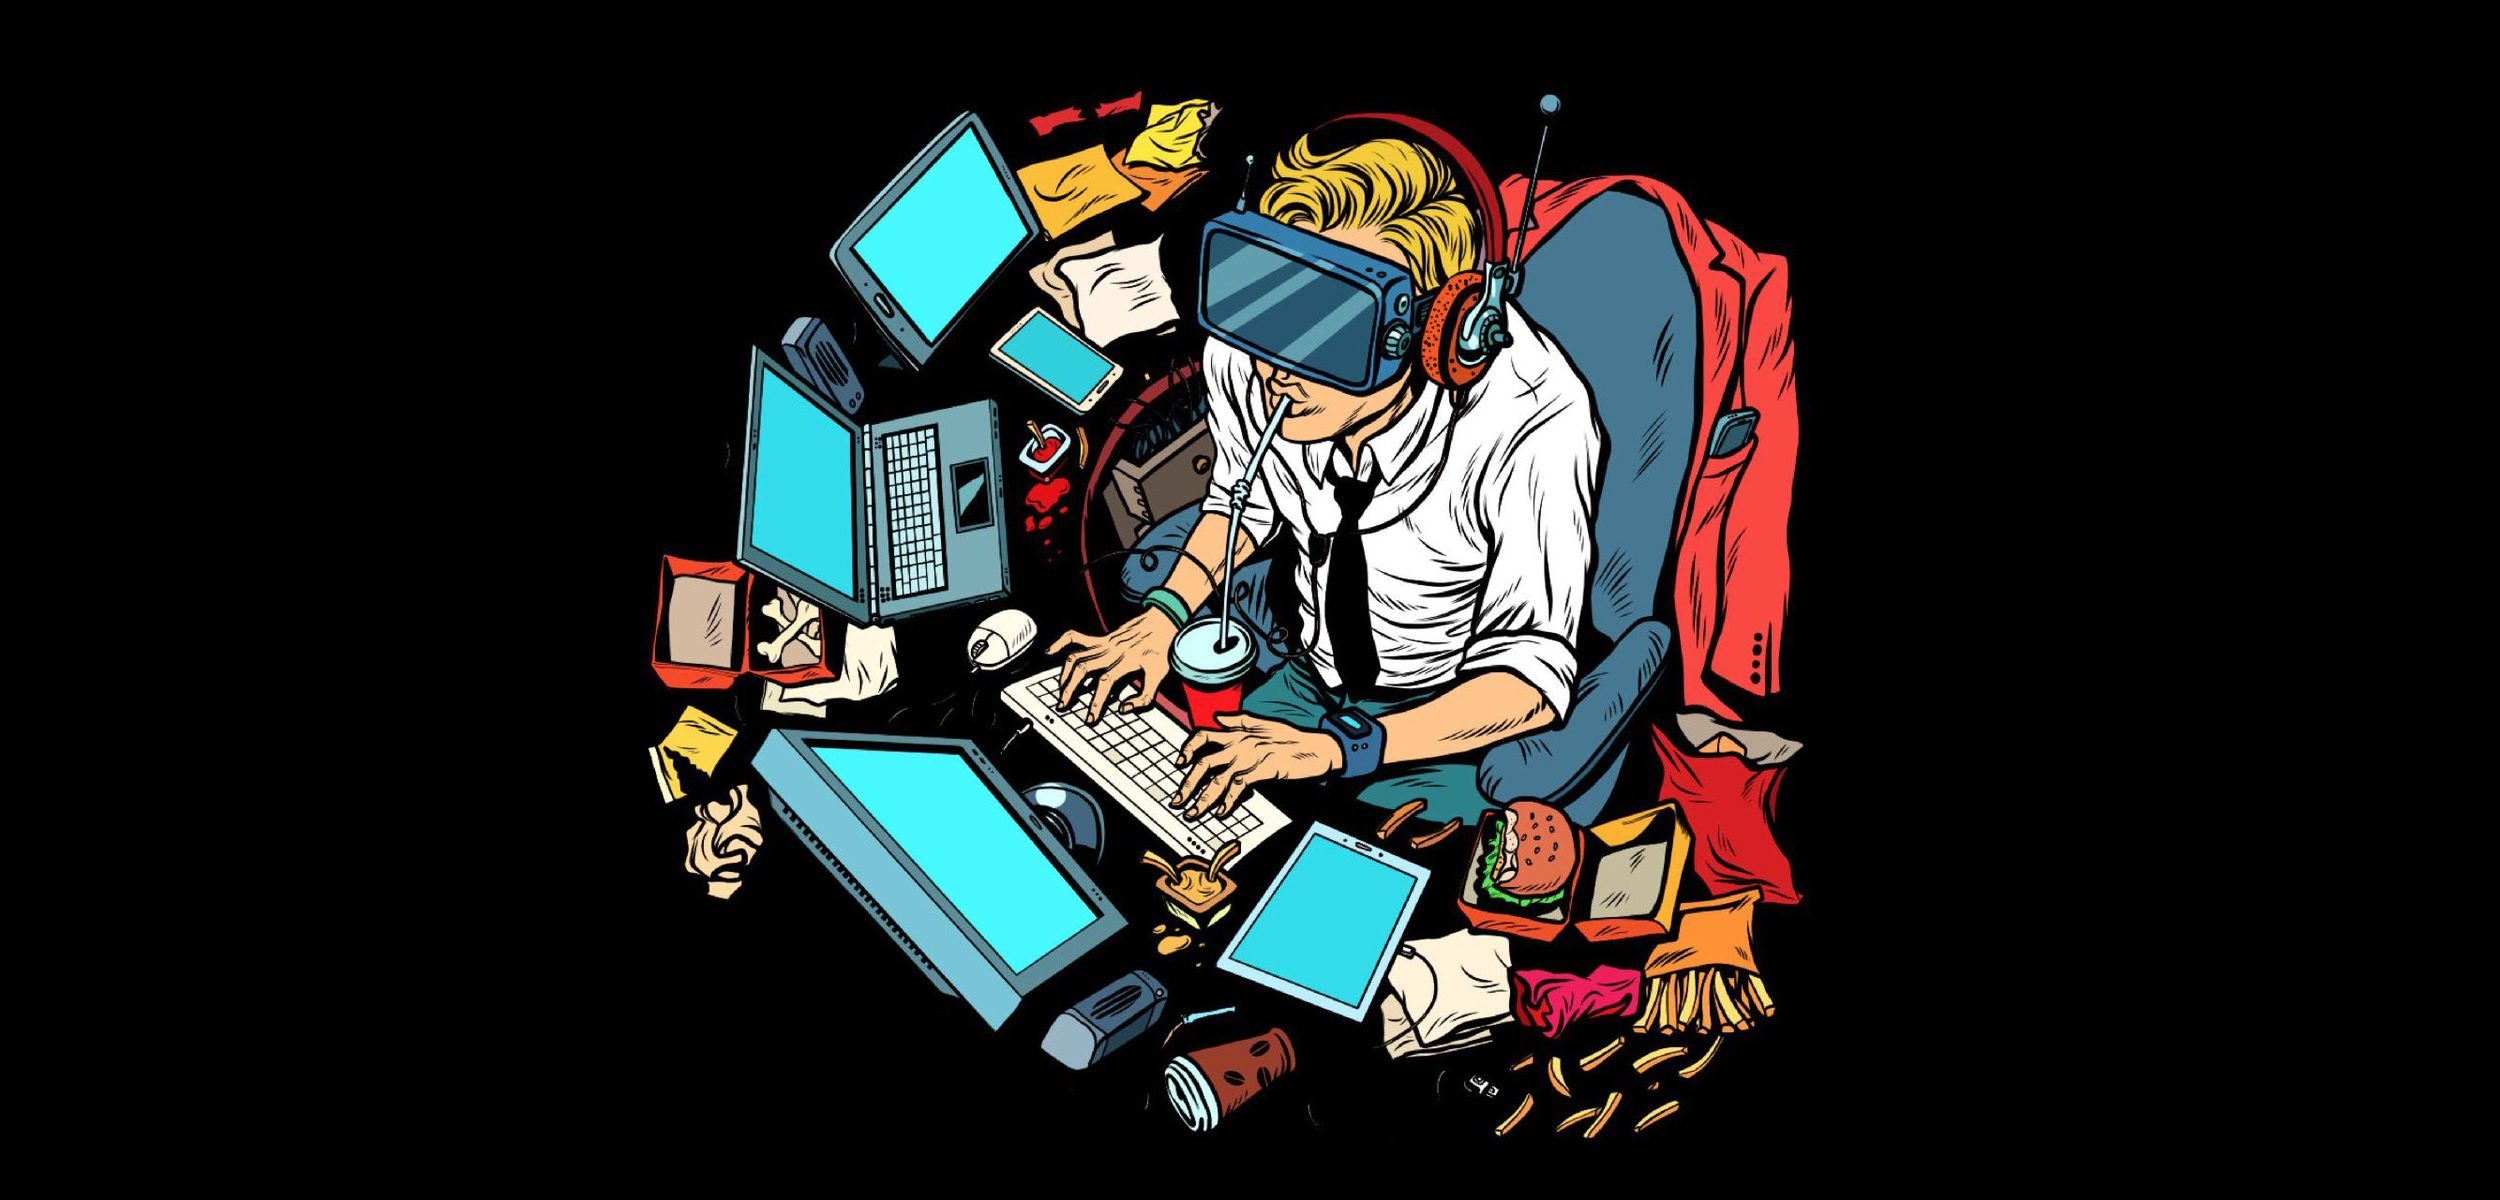
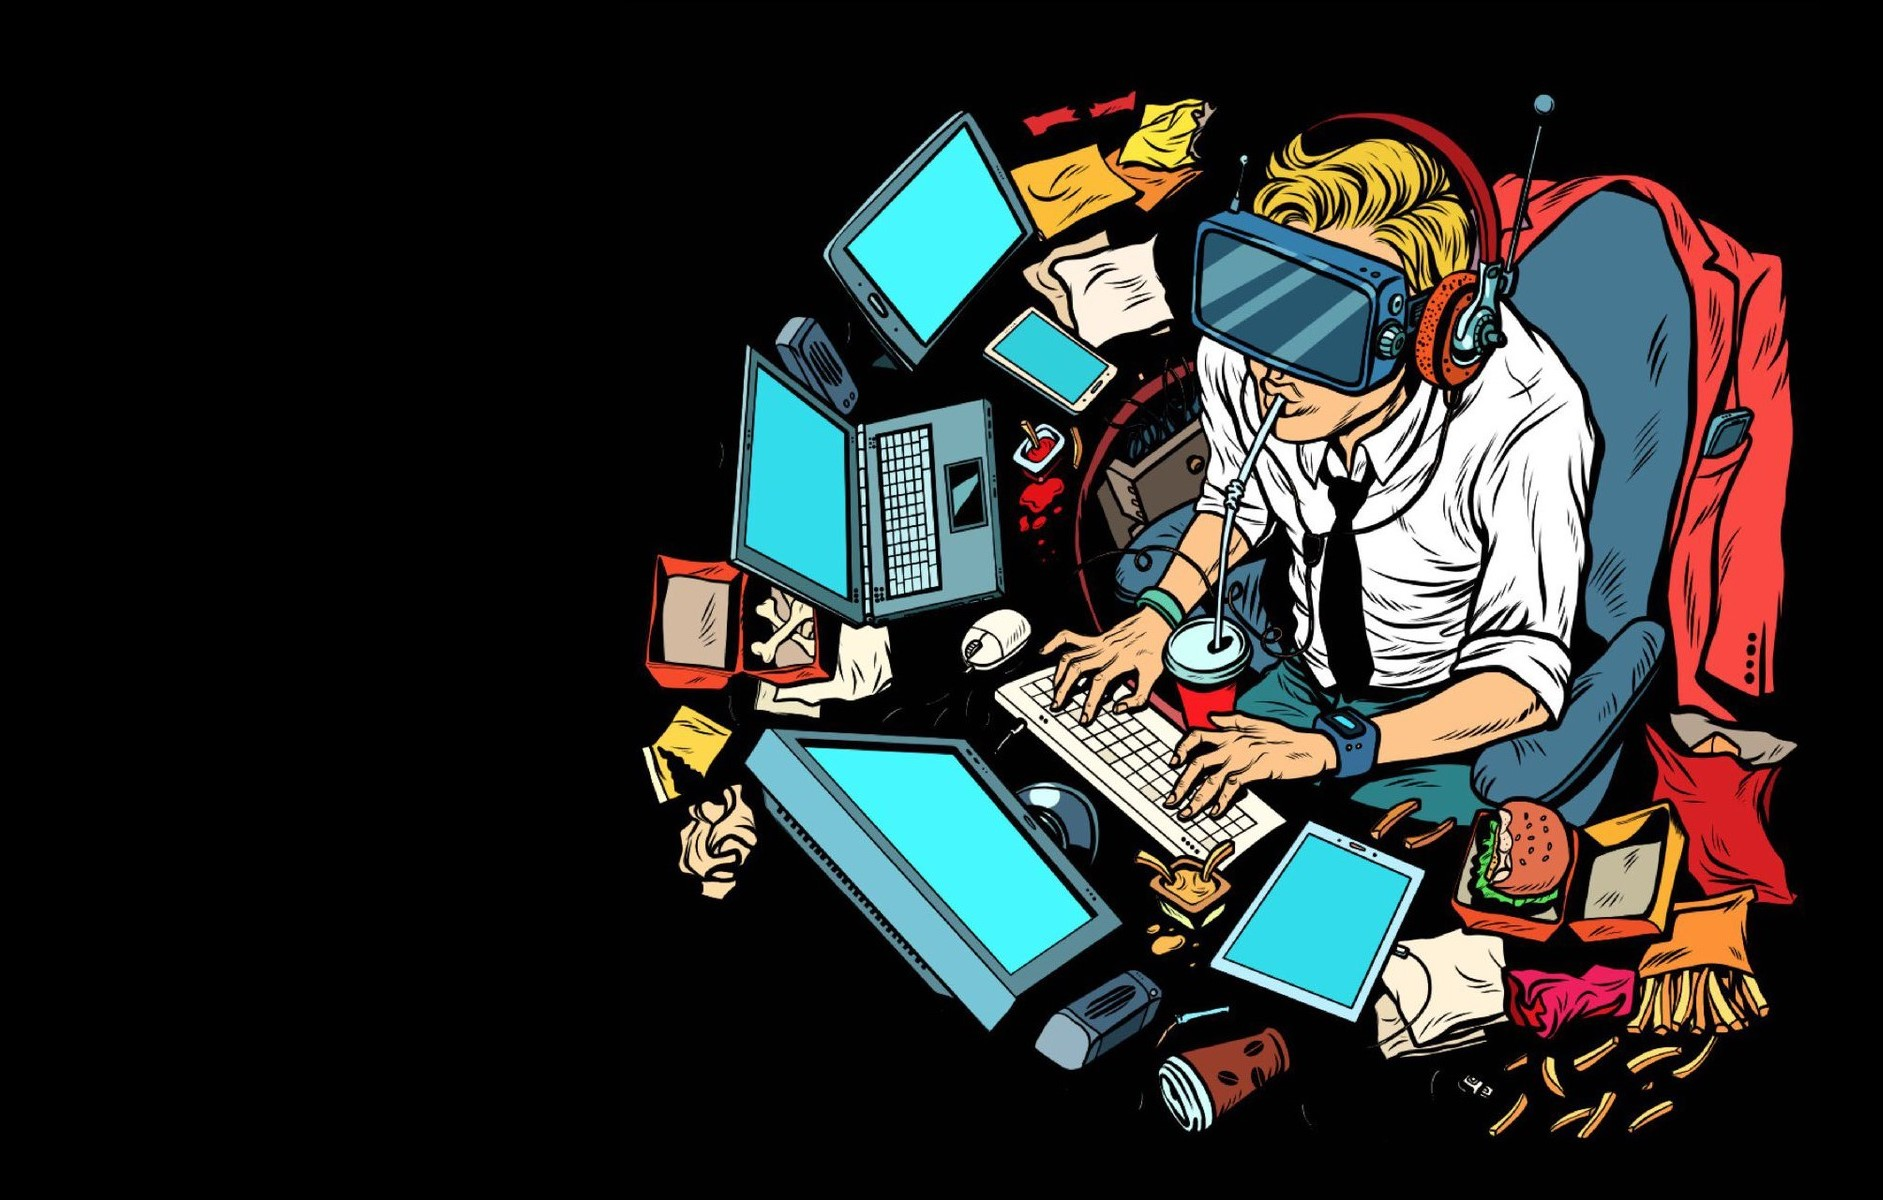
made css changes

diff --git a/assets/stylesheets/index.css b/assets/stylesheets/index.css
@@ -1,8 +1,13 @@
 .top{
     text-align:center;
     color: white;
-    margin-top:0px;
+    margin-top:-20px;
     padding-bottom:100px;
+    background-size: 103%;
+    background-image: url("../img/bg_top.jpg");
+    background-repeat: no-repeat;
+    background-attachment: fixed;
+    background-position:0px 3px;
 }
 .middle {
     background-color: white;
@@ -17,7 +22,9 @@ h2 {
     font-family: 'Raleway', 'Arial', sans-serif;
 }
 .big-header {
-    font-size:60px
+    font-size:60px;
+    font-family: 'Varela Round', sans-serif;
+    margin-top:0px;
 }
 .header{
     margin-left:15%;
@@ -27,10 +34,25 @@ body{
     color:white;
 }
 html{
-    background-image: url("../img/bg_top.jpg");
-    background-repeat: no-repeat;
-    background-attachment: fixed;
-    background-position: center; 
-    background-size:120%;
+    
     background-color: black;
+    
+}
+.myotherButton {
+    background-color:#45c7be;
+    border-radius: 26px;
+	display:inline-block;
+	cursor:pointer;
+	color:#ffffff;
+	font-family: 'Raleway', 'Arial', sans-serif;
+	font-size:20px;
+	padding:10px 25px;
+	text-decoration:none;
+    transition: 0.2s;
+    width:75%;
+    text-align:center;
+}
+.myotherButton:hover {
+    background-color:#EF5350;
+    transform: translateY(2px);
 }

diff --git a/assets/navbar.html b/assets/navbar.html
@@ -14,7 +14,7 @@
 	</div>
 	<div class="menubuttons">
 		<div class="myButton">Post Opportunities</div>
-	      <div class="myButton">Sign Up</div>
+	    <div class="myButton">Sign Up</div>
 	</div>
 </div>
 <script>

diff --git a/index.php b/index.php
@@ -7,6 +7,7 @@
   		<title>WorkTeen</title>
   		<link rel="stylesheet" href="http://yui.yahooapis.com/pure/0.6.0/pure-min.css">
 		<LINK href="assets/stylesheets/pgName.css" rel="stylesheet">
+		<link href="https://fonts.googleapis.com/css?family=Varela+Round" rel="stylesheet">
 		<link href="assets/stylesheets/index.css" rel="stylesheet">
 	</head>
 	<body>
@@ -17,12 +18,19 @@
 			</div>
 			<div class="pure-u-2-3"></div> <!--Spacers-->
 			<div class="pure-u-1-3 header">
-				<h2 class="big-header">LEARN.</h2>
-				<h2 class="big-header">CREATE.</h2>
-				<h2 class="big-header">SERVE.</h2>
+				<h2 class="big-header">LEARN. CREATE. SERVE.</h2>
 			</div>
 			<div class="pure-u-2-3"></div> <!--Spacers-->
+			<div class="pure-u-1-5 header">
+				<div class="myotherButton">Post opportunity ></div>
+			</div>
+			<div class="pure-u-4-5"></div> <!--Spacers-->
 		</div>
+
+
+
+
+
 		<div class="pure-g middle">
 			<div class="pure-u-1-3 header">
 				<h2>JOIN WORKTEEN</h2>
@@ -34,16 +42,15 @@
 				<h2 class="big-header">SERVE.</h2>
 			</div>
 			<div class="pure-u-2-3"></div> <!--Spacers-->
+			
 		</div>
 		<div class="pure-g end">
 			<div class="pure-u-1-3 header">
 				<h2>JOIN WORKTEEN</h2>
 			</div>
 			<div class="pure-u-2-3"></div> <!--Spacers-->
-			<div class="pure-u-1-3 header">
-				<h2 class="big-header">LEARN.</h2>
-				<h2 class="big-header">CREATE.</h2>
-				<h2 class="big-header">SERVE.</h2>
+			<div class="pure-u-1 header">
+				<h2 class="big-header">LEARN. CREATE. SERVE.</div>
 			</div>
 			<div class="pure-u-2-3"></div> <!--Spacers-->
 		</div>
